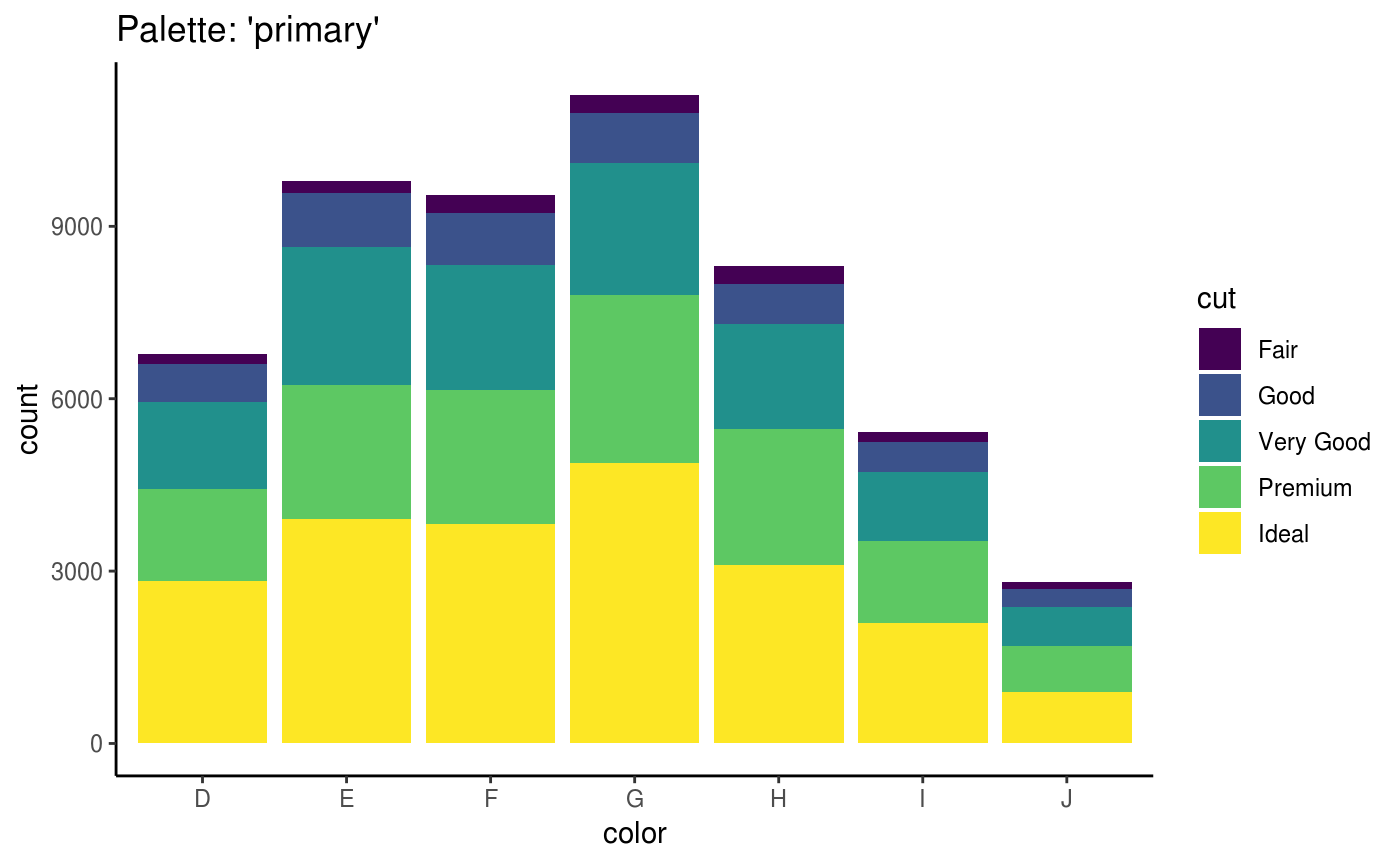
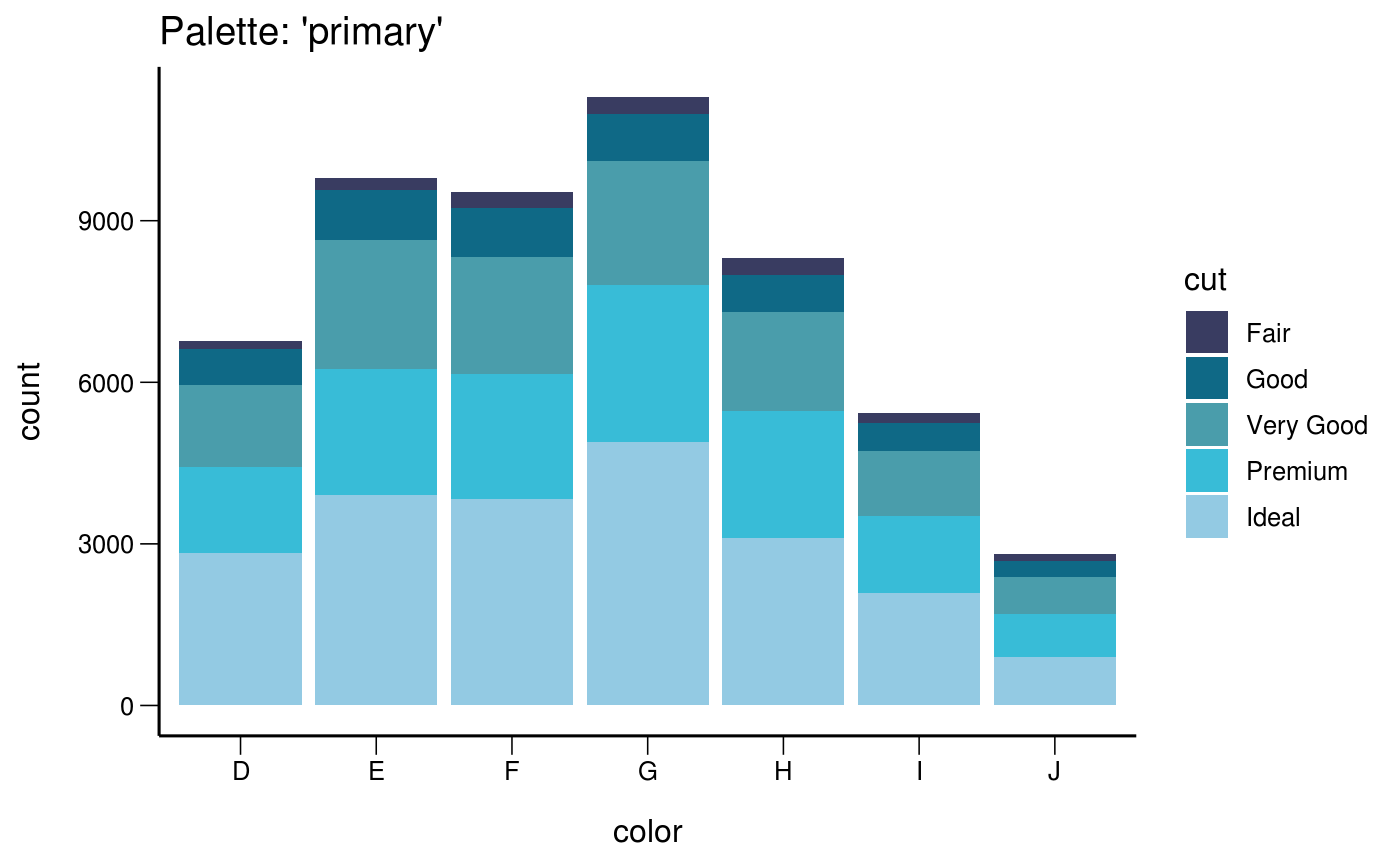
Deploy folkehelseinstituttet/fhiplot to github.com/folkehelseinstituttet/fhiplot.git:gh-pages

diff --git a/articles/palettes.html b/articles/palettes.html
@@ -91,7 +91,7 @@
 <div class="sourceCode" id="cb1"><pre class="sourceCode r"><code class="sourceCode r"><a class="sourceLine" id="cb1-1" data-line-number="1"><span class="kw"><a href="https://www.rdocumentation.org/packages/base/topics/library">library</a></span>(ggplot2)</a>
 <a class="sourceLine" id="cb1-2" data-line-number="2"><span class="kw"><a href="https://www.rdocumentation.org/packages/base/topics/library">library</a></span>(fhiplot)</a>
 <a class="sourceLine" id="cb1-3" data-line-number="3"><span class="co">#&gt; PACKAGE: fhiplot</span></a>
-<a class="sourceLine" id="cb1-4" data-line-number="4"><span class="co">#&gt; Version 2019.03.21 at 08:07</span></a>
+<a class="sourceLine" id="cb1-4" data-line-number="4"><span class="co">#&gt; Version 2019.03.21 at 09:17</span></a>
 <a class="sourceLine" id="cb1-5" data-line-number="5"><span class="co">#&gt; Developed by Richard White, Norwegian Institute of Public Health</span></a></code></pre></div>
 <div id="palette" class="section level2">
 <h2 class="hasAnchor">
@@ -110,18 +110,20 @@
 <p>Here we have a diverging map:</p>
 <div class="sourceCode" id="cb4"><pre class="sourceCode r"><code class="sourceCode r"><a class="sourceLine" id="cb4-1" data-line-number="1">q &lt;-<span class="st"> </span><span class="kw"><a href="https://www.rdocumentation.org/packages/ggplot2/topics/ggplot">ggplot</a></span>()</a>
 <a class="sourceLine" id="cb4-2" data-line-number="2">q &lt;-<span class="st"> </span>q <span class="op">+</span><span class="st"> </span><span class="kw"><a href="https://www.rdocumentation.org/packages/ggplot2/topics/geom_polygon">geom_polygon</a></span>(<span class="dt">data =</span> pd, <span class="kw"><a href="https://www.rdocumentation.org/packages/ggplot2/topics/aes">aes</a></span>( <span class="dt">x =</span> long, <span class="dt">y =</span> lat, <span class="dt">group =</span> group, <span class="dt">fill=</span>category), <span class="dt">color=</span><span class="st">"black"</span>, <span class="dt">size=</span><span class="fl">0.25</span>)</a>
-<a class="sourceLine" id="cb4-3" data-line-number="3">q &lt;-<span class="st"> </span>q <span class="op">+</span><span class="st"> </span><span class="kw"><a href="https://www.rdocumentation.org/packages/ggplot2/topics/ggtheme">theme_void</a></span>()</a>
-<a class="sourceLine" id="cb4-4" data-line-number="4">q &lt;-<span class="st"> </span>q <span class="op">+</span><span class="st"> </span><span class="kw"><a href="https://www.rdocumentation.org/packages/ggplot2/topics/coord_map">coord_quickmap</a></span>()</a>
-<a class="sourceLine" id="cb4-5" data-line-number="5">q &lt;-<span class="st"> </span>q <span class="op">+</span><span class="st"> </span>fhiplot<span class="op">::</span><span class="kw"><a href="https://www.rdocumentation.org/packages/fhiplot/topics/scale_fill_fhi">scale_fill_fhi</a></span>(<span class="st">"Category"</span>,<span class="dt">palette =</span> <span class="st">"map_div"</span>, <span class="dt">direction =</span> <span class="dv">1</span>)</a>
-<a class="sourceLine" id="cb4-6" data-line-number="6">q</a></code></pre></div>
+<a class="sourceLine" id="cb4-3" data-line-number="3">q &lt;-<span class="st"> </span>q <span class="op">+</span><span class="st"> </span><span class="kw"><a href="https://www.rdocumentation.org/packages/ggplot2/topics/coord_map">coord_quickmap</a></span>()</a>
+<a class="sourceLine" id="cb4-4" data-line-number="4">q &lt;-<span class="st"> </span>q <span class="op">+</span><span class="st"> </span>fhiplot<span class="op">::</span><span class="kw"><a href="https://www.rdocumentation.org/packages/fhiplot/topics/scale_fill_fhi">scale_fill_fhi</a></span>(<span class="st">"Category"</span>,<span class="dt">palette =</span> <span class="st">"map_div"</span>, <span class="dt">direction =</span> <span class="dv">1</span>)</a>
+<a class="sourceLine" id="cb4-5" data-line-number="5">q &lt;-<span class="st"> </span>q <span class="op">+</span><span class="st"> </span><span class="kw"><a href="https://www.rdocumentation.org/packages/ggplot2/topics/labs">labs</a></span>(<span class="dt">title=</span><span class="st">"Palette: 'map_div'"</span>)</a>
+<a class="sourceLine" id="cb4-6" data-line-number="6">q &lt;-<span class="st"> </span>q <span class="op">+</span><span class="st"> </span><span class="kw"><a href="https://www.rdocumentation.org/packages/ggplot2/topics/ggtheme">theme_void</a></span>()</a>
+<a class="sourceLine" id="cb4-7" data-line-number="7">q</a></code></pre></div>
 <p><img src="palettes_files/figure-html/unnamed-chunk-4-1.png" width="700"></p>
 <p>Here we have a sequential map:</p>
 <div class="sourceCode" id="cb5"><pre class="sourceCode r"><code class="sourceCode r"><a class="sourceLine" id="cb5-1" data-line-number="1">q &lt;-<span class="st"> </span><span class="kw"><a href="https://www.rdocumentation.org/packages/ggplot2/topics/ggplot">ggplot</a></span>()</a>
 <a class="sourceLine" id="cb5-2" data-line-number="2">q &lt;-<span class="st"> </span>q <span class="op">+</span><span class="st"> </span><span class="kw"><a href="https://www.rdocumentation.org/packages/ggplot2/topics/geom_polygon">geom_polygon</a></span>(<span class="dt">data =</span> pd, <span class="kw"><a href="https://www.rdocumentation.org/packages/ggplot2/topics/aes">aes</a></span>( <span class="dt">x =</span> long, <span class="dt">y =</span> lat, <span class="dt">group =</span> group, <span class="dt">fill=</span>category), <span class="dt">color=</span><span class="st">"black"</span>, <span class="dt">size=</span><span class="fl">0.25</span>)</a>
-<a class="sourceLine" id="cb5-3" data-line-number="3">q &lt;-<span class="st"> </span>q <span class="op">+</span><span class="st"> </span><span class="kw"><a href="https://www.rdocumentation.org/packages/ggplot2/topics/ggtheme">theme_void</a></span>()</a>
-<a class="sourceLine" id="cb5-4" data-line-number="4">q &lt;-<span class="st"> </span>q <span class="op">+</span><span class="st"> </span><span class="kw"><a href="https://www.rdocumentation.org/packages/ggplot2/topics/coord_map">coord_quickmap</a></span>()</a>
-<a class="sourceLine" id="cb5-5" data-line-number="5">q &lt;-<span class="st"> </span>q <span class="op">+</span><span class="st"> </span>fhiplot<span class="op">::</span><span class="kw"><a href="https://www.rdocumentation.org/packages/fhiplot/topics/scale_fill_fhi">scale_fill_fhi</a></span>(<span class="st">"Category"</span>,<span class="dt">palette =</span> <span class="st">"map_seq"</span>, <span class="dt">direction =</span> <span class="dv">1</span>)</a>
-<a class="sourceLine" id="cb5-6" data-line-number="6">q</a></code></pre></div>
+<a class="sourceLine" id="cb5-3" data-line-number="3">q &lt;-<span class="st"> </span>q <span class="op">+</span><span class="st"> </span><span class="kw"><a href="https://www.rdocumentation.org/packages/ggplot2/topics/coord_map">coord_quickmap</a></span>()</a>
+<a class="sourceLine" id="cb5-4" data-line-number="4">q &lt;-<span class="st"> </span>q <span class="op">+</span><span class="st"> </span>fhiplot<span class="op">::</span><span class="kw"><a href="https://www.rdocumentation.org/packages/fhiplot/topics/scale_fill_fhi">scale_fill_fhi</a></span>(<span class="st">"Category"</span>,<span class="dt">palette =</span> <span class="st">"map_seq"</span>, <span class="dt">direction =</span> <span class="dv">1</span>)</a>
+<a class="sourceLine" id="cb5-5" data-line-number="5">q &lt;-<span class="st"> </span>q <span class="op">+</span><span class="st"> </span><span class="kw"><a href="https://www.rdocumentation.org/packages/ggplot2/topics/labs">labs</a></span>(<span class="dt">title=</span><span class="st">"Palette: 'map_seq'"</span>)</a>
+<a class="sourceLine" id="cb5-6" data-line-number="6">q &lt;-<span class="st"> </span>q <span class="op">+</span><span class="st"> </span><span class="kw"><a href="https://www.rdocumentation.org/packages/ggplot2/topics/ggtheme">theme_void</a></span>()</a>
+<a class="sourceLine" id="cb5-7" data-line-number="7">q</a></code></pre></div>
 <p><img src="palettes_files/figure-html/unnamed-chunk-5-1.png" width="700"></p>
 </div>
 <div id="points" class="section level2">
@@ -129,23 +131,23 @@
 <a href="#points" class="anchor"></a>Points</h2>
 <div class="sourceCode" id="cb6"><pre class="sourceCode r"><code class="sourceCode r"><a class="sourceLine" id="cb6-1" data-line-number="1">q &lt;-<span class="st"> </span><span class="kw"><a href="https://www.rdocumentation.org/packages/ggplot2/topics/ggplot">ggplot</a></span>(diamonds[<span class="dv">1</span><span class="op">:</span><span class="dv">200</span>,], <span class="kw"><a href="https://www.rdocumentation.org/packages/ggplot2/topics/aes">aes</a></span>(carat, depth, <span class="dt">color =</span> cut))</a>
 <a class="sourceLine" id="cb6-2" data-line-number="2">q &lt;-<span class="st"> </span>q <span class="op">+</span><span class="st"> </span><span class="kw"><a href="https://www.rdocumentation.org/packages/ggplot2/topics/geom_point">geom_point</a></span>(<span class="dt">size =</span> <span class="dv">4</span>)</a>
-<a class="sourceLine" id="cb6-3" data-line-number="3">q &lt;-<span class="st"> </span>q <span class="op">+</span><span class="st"> </span><span class="kw"><a href="https://www.rdocumentation.org/packages/ggplot2/topics/ggtheme">theme_classic</a></span>()</a>
-<a class="sourceLine" id="cb6-4" data-line-number="4">q &lt;-<span class="st"> </span>q <span class="op">+</span><span class="st"> </span>fhiplot<span class="op">::</span><span class="kw"><a href="https://www.rdocumentation.org/packages/fhiplot/topics/scale_color_fhi">scale_color_fhi</a></span>(<span class="dt">palette =</span> <span class="st">"combination"</span>)</a>
-<a class="sourceLine" id="cb6-5" data-line-number="5">q &lt;-<span class="st"> </span>q <span class="op">+</span><span class="st"> </span><span class="kw"><a href="https://www.rdocumentation.org/packages/ggplot2/topics/labs">labs</a></span>(<span class="dt">title=</span><span class="st">"Palette: 'combination'"</span>)</a>
+<a class="sourceLine" id="cb6-3" data-line-number="3">q &lt;-<span class="st"> </span>q <span class="op">+</span><span class="st"> </span>fhiplot<span class="op">::</span><span class="kw"><a href="https://www.rdocumentation.org/packages/fhiplot/topics/scale_color_fhi">scale_color_fhi</a></span>(<span class="dt">palette =</span> <span class="st">"combination"</span>)</a>
+<a class="sourceLine" id="cb6-4" data-line-number="4">q &lt;-<span class="st"> </span>q <span class="op">+</span><span class="st"> </span><span class="kw"><a href="https://www.rdocumentation.org/packages/ggplot2/topics/labs">labs</a></span>(<span class="dt">title=</span><span class="st">"Palette: 'combination'"</span>)</a>
+<a class="sourceLine" id="cb6-5" data-line-number="5">q &lt;-<span class="st"> </span>q <span class="op">+</span><span class="st"> </span><span class="kw"><a href="../reference/theme_fhi_basic.html">theme_fhi_basic</a></span>()</a>
 <a class="sourceLine" id="cb6-6" data-line-number="6">q</a></code></pre></div>
 <p><img src="palettes_files/figure-html/unnamed-chunk-6-1.png" width="700"></p>
 <div class="sourceCode" id="cb7"><pre class="sourceCode r"><code class="sourceCode r"><a class="sourceLine" id="cb7-1" data-line-number="1">q &lt;-<span class="st"> </span><span class="kw"><a href="https://www.rdocumentation.org/packages/ggplot2/topics/ggplot">ggplot</a></span>(diamonds[<span class="dv">1</span><span class="op">:</span><span class="dv">200</span>,], <span class="kw"><a href="https://www.rdocumentation.org/packages/ggplot2/topics/aes">aes</a></span>(carat, depth, <span class="dt">color =</span> cut))</a>
 <a class="sourceLine" id="cb7-2" data-line-number="2">q &lt;-<span class="st"> </span>q <span class="op">+</span><span class="st"> </span><span class="kw"><a href="https://www.rdocumentation.org/packages/ggplot2/topics/geom_point">geom_point</a></span>(<span class="dt">size =</span> <span class="dv">4</span>)</a>
-<a class="sourceLine" id="cb7-3" data-line-number="3">q &lt;-<span class="st"> </span>q <span class="op">+</span><span class="st"> </span><span class="kw"><a href="https://www.rdocumentation.org/packages/ggplot2/topics/ggtheme">theme_classic</a></span>()</a>
-<a class="sourceLine" id="cb7-4" data-line-number="4">q &lt;-<span class="st"> </span>q <span class="op">+</span><span class="st"> </span>fhiplot<span class="op">::</span><span class="kw"><a href="https://www.rdocumentation.org/packages/fhiplot/topics/scale_color_fhi">scale_color_fhi</a></span>(<span class="dt">palette =</span> <span class="st">"contrast"</span>)</a>
-<a class="sourceLine" id="cb7-5" data-line-number="5">q &lt;-<span class="st"> </span>q <span class="op">+</span><span class="st"> </span><span class="kw"><a href="https://www.rdocumentation.org/packages/ggplot2/topics/labs">labs</a></span>(<span class="dt">title=</span><span class="st">"Palette: 'contrast'"</span>)</a>
+<a class="sourceLine" id="cb7-3" data-line-number="3">q &lt;-<span class="st"> </span>q <span class="op">+</span><span class="st"> </span>fhiplot<span class="op">::</span><span class="kw"><a href="https://www.rdocumentation.org/packages/fhiplot/topics/scale_color_fhi">scale_color_fhi</a></span>(<span class="dt">palette =</span> <span class="st">"contrast"</span>)</a>
+<a class="sourceLine" id="cb7-4" data-line-number="4">q &lt;-<span class="st"> </span>q <span class="op">+</span><span class="st"> </span><span class="kw"><a href="https://www.rdocumentation.org/packages/ggplot2/topics/labs">labs</a></span>(<span class="dt">title=</span><span class="st">"Palette: 'contrast'"</span>)</a>
+<a class="sourceLine" id="cb7-5" data-line-number="5">q &lt;-<span class="st"> </span>q <span class="op">+</span><span class="st"> </span><span class="kw"><a href="../reference/theme_fhi_basic.html">theme_fhi_basic</a></span>()</a>
 <a class="sourceLine" id="cb7-6" data-line-number="6">q</a></code></pre></div>
 <p><img src="palettes_files/figure-html/unnamed-chunk-7-1.png" width="700"></p>
 <div class="sourceCode" id="cb8"><pre class="sourceCode r"><code class="sourceCode r"><a class="sourceLine" id="cb8-1" data-line-number="1">q &lt;-<span class="st"> </span><span class="kw"><a href="https://www.rdocumentation.org/packages/ggplot2/topics/ggplot">ggplot</a></span>(diamonds[<span class="dv">1</span><span class="op">:</span><span class="dv">200</span>,], <span class="kw"><a href="https://www.rdocumentation.org/packages/ggplot2/topics/aes">aes</a></span>(carat, depth, <span class="dt">color =</span> cut))</a>
 <a class="sourceLine" id="cb8-2" data-line-number="2">q &lt;-<span class="st"> </span>q <span class="op">+</span><span class="st"> </span><span class="kw"><a href="https://www.rdocumentation.org/packages/ggplot2/topics/geom_point">geom_point</a></span>(<span class="dt">size =</span> <span class="dv">4</span>)</a>
-<a class="sourceLine" id="cb8-3" data-line-number="3">q &lt;-<span class="st"> </span>q <span class="op">+</span><span class="st"> </span><span class="kw"><a href="https://www.rdocumentation.org/packages/ggplot2/topics/ggtheme">theme_classic</a></span>()</a>
-<a class="sourceLine" id="cb8-4" data-line-number="4">q &lt;-<span class="st"> </span>q <span class="op">+</span><span class="st"> </span>fhiplot<span class="op">::</span><span class="kw"><a href="https://www.rdocumentation.org/packages/fhiplot/topics/scale_color_fhi">scale_color_fhi</a></span>(<span class="dt">palette =</span> <span class="st">"contrast"</span>)</a>
-<a class="sourceLine" id="cb8-5" data-line-number="5">q &lt;-<span class="st"> </span>q <span class="op">+</span><span class="st"> </span><span class="kw"><a href="https://www.rdocumentation.org/packages/ggplot2/topics/labs">labs</a></span>(<span class="dt">title=</span><span class="st">"Palette: 'primary'"</span>)</a>
+<a class="sourceLine" id="cb8-3" data-line-number="3">q &lt;-<span class="st"> </span>q <span class="op">+</span><span class="st"> </span>fhiplot<span class="op">::</span><span class="kw"><a href="https://www.rdocumentation.org/packages/fhiplot/topics/scale_color_fhi">scale_color_fhi</a></span>(<span class="dt">palette =</span> <span class="st">"primary"</span>)</a>
+<a class="sourceLine" id="cb8-4" data-line-number="4">q &lt;-<span class="st"> </span>q <span class="op">+</span><span class="st"> </span><span class="kw"><a href="https://www.rdocumentation.org/packages/ggplot2/topics/labs">labs</a></span>(<span class="dt">title=</span><span class="st">"Palette: 'primary'"</span>)</a>
+<a class="sourceLine" id="cb8-5" data-line-number="5">q &lt;-<span class="st"> </span>q <span class="op">+</span><span class="st"> </span><span class="kw"><a href="../reference/theme_fhi_basic.html">theme_fhi_basic</a></span>()</a>
 <a class="sourceLine" id="cb8-6" data-line-number="6">q</a></code></pre></div>
 <p><img src="palettes_files/figure-html/unnamed-chunk-8-1.png" width="700"></p>
 </div>
@@ -154,24 +156,24 @@
 <a href="#barcharts" class="anchor"></a>Barcharts</h2>
 <p>We first try some barcharts with the <code>dis_primary</code> palette and two different themes:</p>
 <div class="sourceCode" id="cb9"><pre class="sourceCode r"><code class="sourceCode r"><a class="sourceLine" id="cb9-1" data-line-number="1">q &lt;-<span class="st"> </span><span class="kw"><a href="https://www.rdocumentation.org/packages/ggplot2/topics/ggplot">ggplot</a></span>(diamonds, <span class="kw"><a href="https://www.rdocumentation.org/packages/ggplot2/topics/aes">aes</a></span>(<span class="dt">x=</span>color, <span class="dt">fill =</span> cut))</a>
-<a class="sourceLine" id="cb9-2" data-line-number="2">q &lt;-<span class="st"> </span>q <span class="op">+</span><span class="st"> </span><span class="kw"><a href="https://www.rdocumentation.org/packages/ggplot2/topics/ggtheme">theme_classic</a></span>()</a>
-<a class="sourceLine" id="cb9-3" data-line-number="3">q &lt;-<span class="st"> </span>q <span class="op">+</span><span class="st"> </span><span class="kw"><a href="https://www.rdocumentation.org/packages/ggplot2/topics/geom_bar">geom_bar</a></span>()</a>
-<a class="sourceLine" id="cb9-4" data-line-number="4">q &lt;-<span class="st"> </span>q <span class="op">+</span><span class="st"> </span>fhiplot<span class="op">::</span><span class="kw"><a href="https://www.rdocumentation.org/packages/fhiplot/topics/scale_color_fhi">scale_color_fhi</a></span>(<span class="dt">palette =</span> <span class="st">"combination"</span>)</a>
-<a class="sourceLine" id="cb9-5" data-line-number="5">q &lt;-<span class="st"> </span>q <span class="op">+</span><span class="st"> </span><span class="kw"><a href="https://www.rdocumentation.org/packages/ggplot2/topics/labs">labs</a></span>(<span class="dt">title=</span><span class="st">"Palette: 'combination'"</span>)</a>
+<a class="sourceLine" id="cb9-2" data-line-number="2">q &lt;-<span class="st"> </span>q <span class="op">+</span><span class="st"> </span><span class="kw"><a href="https://www.rdocumentation.org/packages/ggplot2/topics/geom_bar">geom_bar</a></span>()</a>
+<a class="sourceLine" id="cb9-3" data-line-number="3">q &lt;-<span class="st"> </span>q <span class="op">+</span><span class="st"> </span>fhiplot<span class="op">::</span><span class="kw"><a href="https://www.rdocumentation.org/packages/fhiplot/topics/scale_fill_fhi">scale_fill_fhi</a></span>(<span class="dt">palette =</span> <span class="st">"combination"</span>)</a>
+<a class="sourceLine" id="cb9-4" data-line-number="4">q &lt;-<span class="st"> </span>q <span class="op">+</span><span class="st"> </span><span class="kw"><a href="https://www.rdocumentation.org/packages/ggplot2/topics/labs">labs</a></span>(<span class="dt">title=</span><span class="st">"Palette: 'combination'"</span>)</a>
+<a class="sourceLine" id="cb9-5" data-line-number="5">q &lt;-<span class="st"> </span>q <span class="op">+</span><span class="st"> </span><span class="kw"><a href="../reference/theme_fhi_basic.html">theme_fhi_basic</a></span>()</a>
 <a class="sourceLine" id="cb9-6" data-line-number="6">q</a></code></pre></div>
 <p><img src="palettes_files/figure-html/unnamed-chunk-9-1.png" width="700"></p>
 <div class="sourceCode" id="cb10"><pre class="sourceCode r"><code class="sourceCode r"><a class="sourceLine" id="cb10-1" data-line-number="1">q &lt;-<span class="st"> </span><span class="kw"><a href="https://www.rdocumentation.org/packages/ggplot2/topics/ggplot">ggplot</a></span>(diamonds, <span class="kw"><a href="https://www.rdocumentation.org/packages/ggplot2/topics/aes">aes</a></span>(<span class="dt">x=</span>color, <span class="dt">fill =</span> cut))</a>
-<a class="sourceLine" id="cb10-2" data-line-number="2">q &lt;-<span class="st"> </span>q <span class="op">+</span><span class="st"> </span><span class="kw"><a href="https://www.rdocumentation.org/packages/ggplot2/topics/ggtheme">theme_classic</a></span>()</a>
-<a class="sourceLine" id="cb10-3" data-line-number="3">q &lt;-<span class="st"> </span>q <span class="op">+</span><span class="st"> </span><span class="kw"><a href="https://www.rdocumentation.org/packages/ggplot2/topics/geom_bar">geom_bar</a></span>()</a>
-<a class="sourceLine" id="cb10-4" data-line-number="4">q &lt;-<span class="st"> </span>q <span class="op">+</span><span class="st"> </span>fhiplot<span class="op">::</span><span class="kw"><a href="https://www.rdocumentation.org/packages/fhiplot/topics/scale_color_fhi">scale_color_fhi</a></span>(<span class="dt">palette =</span> <span class="st">"contrast"</span>)</a>
-<a class="sourceLine" id="cb10-5" data-line-number="5">q &lt;-<span class="st"> </span>q <span class="op">+</span><span class="st"> </span><span class="kw"><a href="https://www.rdocumentation.org/packages/ggplot2/topics/labs">labs</a></span>(<span class="dt">title=</span><span class="st">"Palette: 'contrast'"</span>)</a>
+<a class="sourceLine" id="cb10-2" data-line-number="2">q &lt;-<span class="st"> </span>q <span class="op">+</span><span class="st"> </span><span class="kw"><a href="https://www.rdocumentation.org/packages/ggplot2/topics/geom_bar">geom_bar</a></span>()</a>
+<a class="sourceLine" id="cb10-3" data-line-number="3">q &lt;-<span class="st"> </span>q <span class="op">+</span><span class="st"> </span>fhiplot<span class="op">::</span><span class="kw"><a href="https://www.rdocumentation.org/packages/fhiplot/topics/scale_fill_fhi">scale_fill_fhi</a></span>(<span class="dt">palette =</span> <span class="st">"contrast"</span>)</a>
+<a class="sourceLine" id="cb10-4" data-line-number="4">q &lt;-<span class="st"> </span>q <span class="op">+</span><span class="st"> </span><span class="kw"><a href="https://www.rdocumentation.org/packages/ggplot2/topics/labs">labs</a></span>(<span class="dt">title=</span><span class="st">"Palette: 'contrast'"</span>)</a>
+<a class="sourceLine" id="cb10-5" data-line-number="5">q &lt;-<span class="st"> </span>q <span class="op">+</span><span class="st"> </span><span class="kw"><a href="../reference/theme_fhi_basic.html">theme_fhi_basic</a></span>()</a>
 <a class="sourceLine" id="cb10-6" data-line-number="6">q</a></code></pre></div>
 <p><img src="palettes_files/figure-html/unnamed-chunk-10-1.png" width="700"></p>
 <div class="sourceCode" id="cb11"><pre class="sourceCode r"><code class="sourceCode r"><a class="sourceLine" id="cb11-1" data-line-number="1">q &lt;-<span class="st"> </span><span class="kw"><a href="https://www.rdocumentation.org/packages/ggplot2/topics/ggplot">ggplot</a></span>(diamonds, <span class="kw"><a href="https://www.rdocumentation.org/packages/ggplot2/topics/aes">aes</a></span>(<span class="dt">x=</span>color, <span class="dt">fill =</span> cut))</a>
-<a class="sourceLine" id="cb11-2" data-line-number="2">q &lt;-<span class="st"> </span>q <span class="op">+</span><span class="st"> </span><span class="kw"><a href="https://www.rdocumentation.org/packages/ggplot2/topics/ggtheme">theme_classic</a></span>()</a>
-<a class="sourceLine" id="cb11-3" data-line-number="3">q &lt;-<span class="st"> </span>q <span class="op">+</span><span class="st"> </span><span class="kw"><a href="https://www.rdocumentation.org/packages/ggplot2/topics/geom_bar">geom_bar</a></span>()</a>
-<a class="sourceLine" id="cb11-4" data-line-number="4">q &lt;-<span class="st"> </span>q <span class="op">+</span><span class="st"> </span>fhiplot<span class="op">::</span><span class="kw"><a href="https://www.rdocumentation.org/packages/fhiplot/topics/scale_color_fhi">scale_color_fhi</a></span>(<span class="dt">palette =</span> <span class="st">"contrast"</span>)</a>
-<a class="sourceLine" id="cb11-5" data-line-number="5">q &lt;-<span class="st"> </span>q <span class="op">+</span><span class="st"> </span><span class="kw"><a href="https://www.rdocumentation.org/packages/ggplot2/topics/labs">labs</a></span>(<span class="dt">title=</span><span class="st">"Palette: 'primary'"</span>)</a>
+<a class="sourceLine" id="cb11-2" data-line-number="2">q &lt;-<span class="st"> </span>q <span class="op">+</span><span class="st"> </span><span class="kw"><a href="https://www.rdocumentation.org/packages/ggplot2/topics/geom_bar">geom_bar</a></span>()</a>
+<a class="sourceLine" id="cb11-3" data-line-number="3">q &lt;-<span class="st"> </span>q <span class="op">+</span><span class="st"> </span>fhiplot<span class="op">::</span><span class="kw"><a href="https://www.rdocumentation.org/packages/fhiplot/topics/scale_fill_fhi">scale_fill_fhi</a></span>(<span class="dt">palette =</span> <span class="st">"primary"</span>)</a>
+<a class="sourceLine" id="cb11-4" data-line-number="4">q &lt;-<span class="st"> </span>q <span class="op">+</span><span class="st"> </span><span class="kw"><a href="https://www.rdocumentation.org/packages/ggplot2/topics/labs">labs</a></span>(<span class="dt">title=</span><span class="st">"Palette: 'primary'"</span>)</a>
+<a class="sourceLine" id="cb11-5" data-line-number="5">q &lt;-<span class="st"> </span>q <span class="op">+</span><span class="st"> </span><span class="kw"><a href="../reference/theme_fhi_basic.html">theme_fhi_basic</a></span>()</a>
 <a class="sourceLine" id="cb11-6" data-line-number="6">q</a></code></pre></div>
 <p><img src="palettes_files/figure-html/unnamed-chunk-11-1.png" width="700"></p>
 </div>

diff --git a/articles/themes.html b/articles/themes.html
@@ -91,23 +91,23 @@
 <div class="sourceCode" id="cb1"><pre class="sourceCode r"><code class="sourceCode r"><a class="sourceLine" id="cb1-1" data-line-number="1"><span class="kw"><a href="https://www.rdocumentation.org/packages/base/topics/library">library</a></span>(ggplot2)</a>
 <a class="sourceLine" id="cb1-2" data-line-number="2"><span class="kw"><a href="https://www.rdocumentation.org/packages/base/topics/library">library</a></span>(fhiplot)</a>
 <a class="sourceLine" id="cb1-3" data-line-number="3"><span class="co">#&gt; PACKAGE: fhiplot</span></a>
-<a class="sourceLine" id="cb1-4" data-line-number="4"><span class="co">#&gt; Version 2019.03.21 at 08:07</span></a>
+<a class="sourceLine" id="cb1-4" data-line-number="4"><span class="co">#&gt; Version 2019.03.21 at 09:17</span></a>
 <a class="sourceLine" id="cb1-5" data-line-number="5"><span class="co">#&gt; Developed by Richard White, Norwegian Institute of Public Health</span></a></code></pre></div>
 <div id="points" class="section level2">
 <h2 class="hasAnchor">
 <a href="#points" class="anchor"></a>Points</h2>
 <div class="sourceCode" id="cb2"><pre class="sourceCode r"><code class="sourceCode r"><a class="sourceLine" id="cb2-1" data-line-number="1">q &lt;-<span class="st"> </span><span class="kw"><a href="https://www.rdocumentation.org/packages/ggplot2/topics/ggplot">ggplot</a></span>(diamonds[<span class="dv">1</span><span class="op">:</span><span class="dv">200</span>,], <span class="kw"><a href="https://www.rdocumentation.org/packages/ggplot2/topics/aes">aes</a></span>(carat, depth, <span class="dt">color =</span> cut))</a>
 <a class="sourceLine" id="cb2-2" data-line-number="2">q &lt;-<span class="st"> </span>q <span class="op">+</span><span class="st"> </span><span class="kw"><a href="https://www.rdocumentation.org/packages/ggplot2/topics/geom_point">geom_point</a></span>(<span class="dt">size =</span> <span class="dv">4</span>)</a>
-<a class="sourceLine" id="cb2-3" data-line-number="3">q &lt;-<span class="st"> </span>q <span class="op">+</span><span class="st"> </span><span class="kw"><a href="../reference/theme_fhi_basic.html">theme_fhi_basic</a></span>()</a>
-<a class="sourceLine" id="cb2-4" data-line-number="4">q &lt;-<span class="st"> </span>q <span class="op">+</span><span class="st"> </span>fhiplot<span class="op">::</span><span class="kw"><a href="https://www.rdocumentation.org/packages/fhiplot/topics/scale_color_fhi">scale_color_fhi</a></span>(<span class="dt">palette =</span> <span class="st">"contrast"</span>)</a>
-<a class="sourceLine" id="cb2-5" data-line-number="5">q &lt;-<span class="st"> </span>q <span class="op">+</span><span class="st"> </span><span class="kw"><a href="https://www.rdocumentation.org/packages/ggplot2/topics/labs">labs</a></span>(<span class="dt">title=</span><span class="st">"Theme: 'theme_fhi_basic'"</span>)</a>
+<a class="sourceLine" id="cb2-3" data-line-number="3">q &lt;-<span class="st"> </span>q <span class="op">+</span><span class="st"> </span>fhiplot<span class="op">::</span><span class="kw"><a href="https://www.rdocumentation.org/packages/fhiplot/topics/scale_color_fhi">scale_color_fhi</a></span>(<span class="dt">palette =</span> <span class="st">"contrast"</span>)</a>
+<a class="sourceLine" id="cb2-4" data-line-number="4">q &lt;-<span class="st"> </span>q <span class="op">+</span><span class="st"> </span><span class="kw"><a href="https://www.rdocumentation.org/packages/ggplot2/topics/labs">labs</a></span>(<span class="dt">title=</span><span class="st">"Theme: 'theme_fhi_basic'"</span>)</a>
+<a class="sourceLine" id="cb2-5" data-line-number="5">q &lt;-<span class="st"> </span>q <span class="op">+</span><span class="st"> </span><span class="kw"><a href="../reference/theme_fhi_basic.html">theme_fhi_basic</a></span>()</a>
 <a class="sourceLine" id="cb2-6" data-line-number="6">q</a></code></pre></div>
 <p><img src="themes_files/figure-html/unnamed-chunk-2-1.png" width="700"></p>
 <div class="sourceCode" id="cb3"><pre class="sourceCode r"><code class="sourceCode r"><a class="sourceLine" id="cb3-1" data-line-number="1">q &lt;-<span class="st"> </span><span class="kw"><a href="https://www.rdocumentation.org/packages/ggplot2/topics/ggplot">ggplot</a></span>(diamonds[<span class="dv">1</span><span class="op">:</span><span class="dv">200</span>,], <span class="kw"><a href="https://www.rdocumentation.org/packages/ggplot2/topics/aes">aes</a></span>(carat, depth, <span class="dt">color =</span> cut))</a>
 <a class="sourceLine" id="cb3-2" data-line-number="2">q &lt;-<span class="st"> </span>q <span class="op">+</span><span class="st"> </span><span class="kw"><a href="https://www.rdocumentation.org/packages/ggplot2/topics/geom_point">geom_point</a></span>(<span class="dt">size =</span> <span class="dv">4</span>)</a>
-<a class="sourceLine" id="cb3-3" data-line-number="3">q &lt;-<span class="st"> </span>q <span class="op">+</span><span class="st"> </span><span class="kw"><a href="../reference/theme_fhi_lines.html">theme_fhi_lines</a></span>()</a>
-<a class="sourceLine" id="cb3-4" data-line-number="4">q &lt;-<span class="st"> </span>q <span class="op">+</span><span class="st"> </span>fhiplot<span class="op">::</span><span class="kw"><a href="https://www.rdocumentation.org/packages/fhiplot/topics/scale_color_fhi">scale_color_fhi</a></span>(<span class="dt">palette =</span> <span class="st">"contrast"</span>)</a>
-<a class="sourceLine" id="cb3-5" data-line-number="5">q &lt;-<span class="st"> </span>q <span class="op">+</span><span class="st"> </span><span class="kw"><a href="https://www.rdocumentation.org/packages/ggplot2/topics/labs">labs</a></span>(<span class="dt">title=</span><span class="st">"Theme: 'theme_fhi_lines'"</span>)</a>
+<a class="sourceLine" id="cb3-3" data-line-number="3">q &lt;-<span class="st"> </span>q <span class="op">+</span><span class="st"> </span>fhiplot<span class="op">::</span><span class="kw"><a href="https://www.rdocumentation.org/packages/fhiplot/topics/scale_color_fhi">scale_color_fhi</a></span>(<span class="dt">palette =</span> <span class="st">"contrast"</span>)</a>
+<a class="sourceLine" id="cb3-4" data-line-number="4">q &lt;-<span class="st"> </span>q <span class="op">+</span><span class="st"> </span><span class="kw"><a href="https://www.rdocumentation.org/packages/ggplot2/topics/labs">labs</a></span>(<span class="dt">title=</span><span class="st">"Theme: 'theme_fhi_lines'"</span>)</a>
+<a class="sourceLine" id="cb3-5" data-line-number="5">q &lt;-<span class="st"> </span>q <span class="op">+</span><span class="st"> </span><span class="kw"><a href="../reference/theme_fhi_lines.html">theme_fhi_lines</a></span>()</a>
 <a class="sourceLine" id="cb3-6" data-line-number="6">q</a></code></pre></div>
 <p><img src="themes_files/figure-html/unnamed-chunk-3-1.png" width="700"></p>
 </div>
@@ -117,16 +117,16 @@
 <p>We first try some barcharts with the <code>dis_primary</code> palette and two different themes:</p>
 <div class="sourceCode" id="cb4"><pre class="sourceCode r"><code class="sourceCode r"><a class="sourceLine" id="cb4-1" data-line-number="1">q &lt;-<span class="st"> </span><span class="kw"><a href="https://www.rdocumentation.org/packages/ggplot2/topics/ggplot">ggplot</a></span>(diamonds, <span class="kw"><a href="https://www.rdocumentation.org/packages/ggplot2/topics/aes">aes</a></span>(<span class="dt">x=</span>color, <span class="dt">fill =</span> cut))</a>
 <a class="sourceLine" id="cb4-2" data-line-number="2">q &lt;-<span class="st"> </span>q <span class="op">+</span><span class="st"> </span><span class="kw"><a href="https://www.rdocumentation.org/packages/ggplot2/topics/geom_bar">geom_bar</a></span>()</a>
-<a class="sourceLine" id="cb4-3" data-line-number="3">q &lt;-<span class="st"> </span>q <span class="op">+</span><span class="st"> </span><span class="kw"><a href="../reference/theme_fhi_basic.html">theme_fhi_basic</a></span>()</a>
-<a class="sourceLine" id="cb4-4" data-line-number="4">q &lt;-<span class="st"> </span>q <span class="op">+</span><span class="st"> </span>fhiplot<span class="op">::</span><span class="kw"><a href="https://www.rdocumentation.org/packages/fhiplot/topics/scale_color_fhi">scale_color_fhi</a></span>(<span class="dt">palette =</span> <span class="st">"contrast"</span>)</a>
-<a class="sourceLine" id="cb4-5" data-line-number="5">q &lt;-<span class="st"> </span>q <span class="op">+</span><span class="st"> </span><span class="kw"><a href="https://www.rdocumentation.org/packages/ggplot2/topics/labs">labs</a></span>(<span class="dt">title=</span><span class="st">"Theme: 'theme_fhi_basic'"</span>)</a>
+<a class="sourceLine" id="cb4-3" data-line-number="3">q &lt;-<span class="st"> </span>q <span class="op">+</span><span class="st"> </span>fhiplot<span class="op">::</span><span class="kw"><a href="https://www.rdocumentation.org/packages/fhiplot/topics/scale_color_fhi">scale_color_fhi</a></span>(<span class="dt">palette =</span> <span class="st">"contrast"</span>)</a>
+<a class="sourceLine" id="cb4-4" data-line-number="4">q &lt;-<span class="st"> </span>q <span class="op">+</span><span class="st"> </span><span class="kw"><a href="https://www.rdocumentation.org/packages/ggplot2/topics/labs">labs</a></span>(<span class="dt">title=</span><span class="st">"Theme: 'theme_fhi_basic'"</span>)</a>
+<a class="sourceLine" id="cb4-5" data-line-number="5">q &lt;-<span class="st"> </span>q <span class="op">+</span><span class="st"> </span><span class="kw"><a href="../reference/theme_fhi_basic.html">theme_fhi_basic</a></span>()</a>
 <a class="sourceLine" id="cb4-6" data-line-number="6">q</a></code></pre></div>
 <p><img src="themes_files/figure-html/unnamed-chunk-4-1.png" width="700"></p>
 <div class="sourceCode" id="cb5"><pre class="sourceCode r"><code class="sourceCode r"><a class="sourceLine" id="cb5-1" data-line-number="1">q &lt;-<span class="st"> </span><span class="kw"><a href="https://www.rdocumentation.org/packages/ggplot2/topics/ggplot">ggplot</a></span>(diamonds, <span class="kw"><a href="https://www.rdocumentation.org/packages/ggplot2/topics/aes">aes</a></span>(<span class="dt">x=</span>color, <span class="dt">fill =</span> cut))</a>
 <a class="sourceLine" id="cb5-2" data-line-number="2">q &lt;-<span class="st"> </span>q <span class="op">+</span><span class="st"> </span><span class="kw"><a href="https://www.rdocumentation.org/packages/ggplot2/topics/geom_bar">geom_bar</a></span>()</a>
-<a class="sourceLine" id="cb5-3" data-line-number="3">q &lt;-<span class="st"> </span>q <span class="op">+</span><span class="st"> </span><span class="kw"><a href="../reference/theme_fhi_lines.html">theme_fhi_lines</a></span>()</a>
-<a class="sourceLine" id="cb5-4" data-line-number="4">q &lt;-<span class="st"> </span>q <span class="op">+</span><span class="st"> </span>fhiplot<span class="op">::</span><span class="kw"><a href="https://www.rdocumentation.org/packages/fhiplot/topics/scale_color_fhi">scale_color_fhi</a></span>(<span class="dt">palette =</span> <span class="st">"contrast"</span>)</a>
-<a class="sourceLine" id="cb5-5" data-line-number="5">q &lt;-<span class="st"> </span>q <span class="op">+</span><span class="st"> </span><span class="kw"><a href="https://www.rdocumentation.org/packages/ggplot2/topics/labs">labs</a></span>(<span class="dt">title=</span><span class="st">"Theme: 'theme_fhi_lines'"</span>)</a>
+<a class="sourceLine" id="cb5-3" data-line-number="3">q &lt;-<span class="st"> </span>q <span class="op">+</span><span class="st"> </span>fhiplot<span class="op">::</span><span class="kw"><a href="https://www.rdocumentation.org/packages/fhiplot/topics/scale_color_fhi">scale_color_fhi</a></span>(<span class="dt">palette =</span> <span class="st">"contrast"</span>)</a>
+<a class="sourceLine" id="cb5-4" data-line-number="4">q &lt;-<span class="st"> </span>q <span class="op">+</span><span class="st"> </span><span class="kw"><a href="https://www.rdocumentation.org/packages/ggplot2/topics/labs">labs</a></span>(<span class="dt">title=</span><span class="st">"Theme: 'theme_fhi_lines'"</span>)</a>
+<a class="sourceLine" id="cb5-5" data-line-number="5">q &lt;-<span class="st"> </span>q <span class="op">+</span><span class="st"> </span><span class="kw"><a href="../reference/theme_fhi_lines.html">theme_fhi_lines</a></span>()</a>
 <a class="sourceLine" id="cb5-6" data-line-number="6">q</a></code></pre></div>
 <p><img src="themes_files/figure-html/unnamed-chunk-5-1.png" width="700"></p>
 <div class="sourceCode" id="cb6"><pre class="sourceCode r"><code class="sourceCode r"><a class="sourceLine" id="cb6-1" data-line-number="1"><span class="co">#ggsave(q, filename = "example.png", dpi = 300, type = "cairo",</span></a>

diff --git a/reference/theme_fhi_basic.html b/reference/theme_fhi_basic.html
@@ -123,7 +123,7 @@
     
     </div>
 
-    <pre class="usage"><span class='fu'>theme_fhi_basic</span>(<span class='kw'>base_size</span> <span class='kw'>=</span> <span class='fl'>14</span>, <span class='kw'>base_family</span> <span class='kw'>=</span> <span class='st'>""</span>,
+    <pre class="usage"><span class='fu'>theme_fhi_basic</span>(<span class='kw'>base_size</span> <span class='kw'>=</span> <span class='fl'>12</span>, <span class='kw'>base_family</span> <span class='kw'>=</span> <span class='st'>""</span>,
   <span class='kw'>base_line_size</span> <span class='kw'>=</span> <span class='no'>base_size</span>/<span class='fl'>22</span>, <span class='kw'>base_rect_size</span> <span class='kw'>=</span> <span class='no'>base_size</span>/<span class='fl'>22</span>)</pre>
     
     <h2 class="hasAnchor" id="arguments"><a class="anchor" href="#arguments"></a>Arguments</h2>

diff --git a/reference/theme_fhi_lines.html b/reference/theme_fhi_lines.html
@@ -123,7 +123,7 @@
     
     </div>
 
-    <pre class="usage"><span class='fu'>theme_fhi_lines</span>(<span class='kw'>base_size</span> <span class='kw'>=</span> <span class='fl'>14</span>, <span class='kw'>base_family</span> <span class='kw'>=</span> <span class='st'>""</span>,
+    <pre class="usage"><span class='fu'>theme_fhi_lines</span>(<span class='kw'>base_size</span> <span class='kw'>=</span> <span class='fl'>12</span>, <span class='kw'>base_family</span> <span class='kw'>=</span> <span class='st'>""</span>,
   <span class='kw'>base_line_size</span> <span class='kw'>=</span> <span class='no'>base_size</span>/<span class='fl'>22</span>, <span class='kw'>base_rect_size</span> <span class='kw'>=</span> <span class='no'>base_size</span>/<span class='fl'>22</span>)</pre>
     
     <h2 class="hasAnchor" id="arguments"><a class="anchor" href="#arguments"></a>Arguments</h2>
